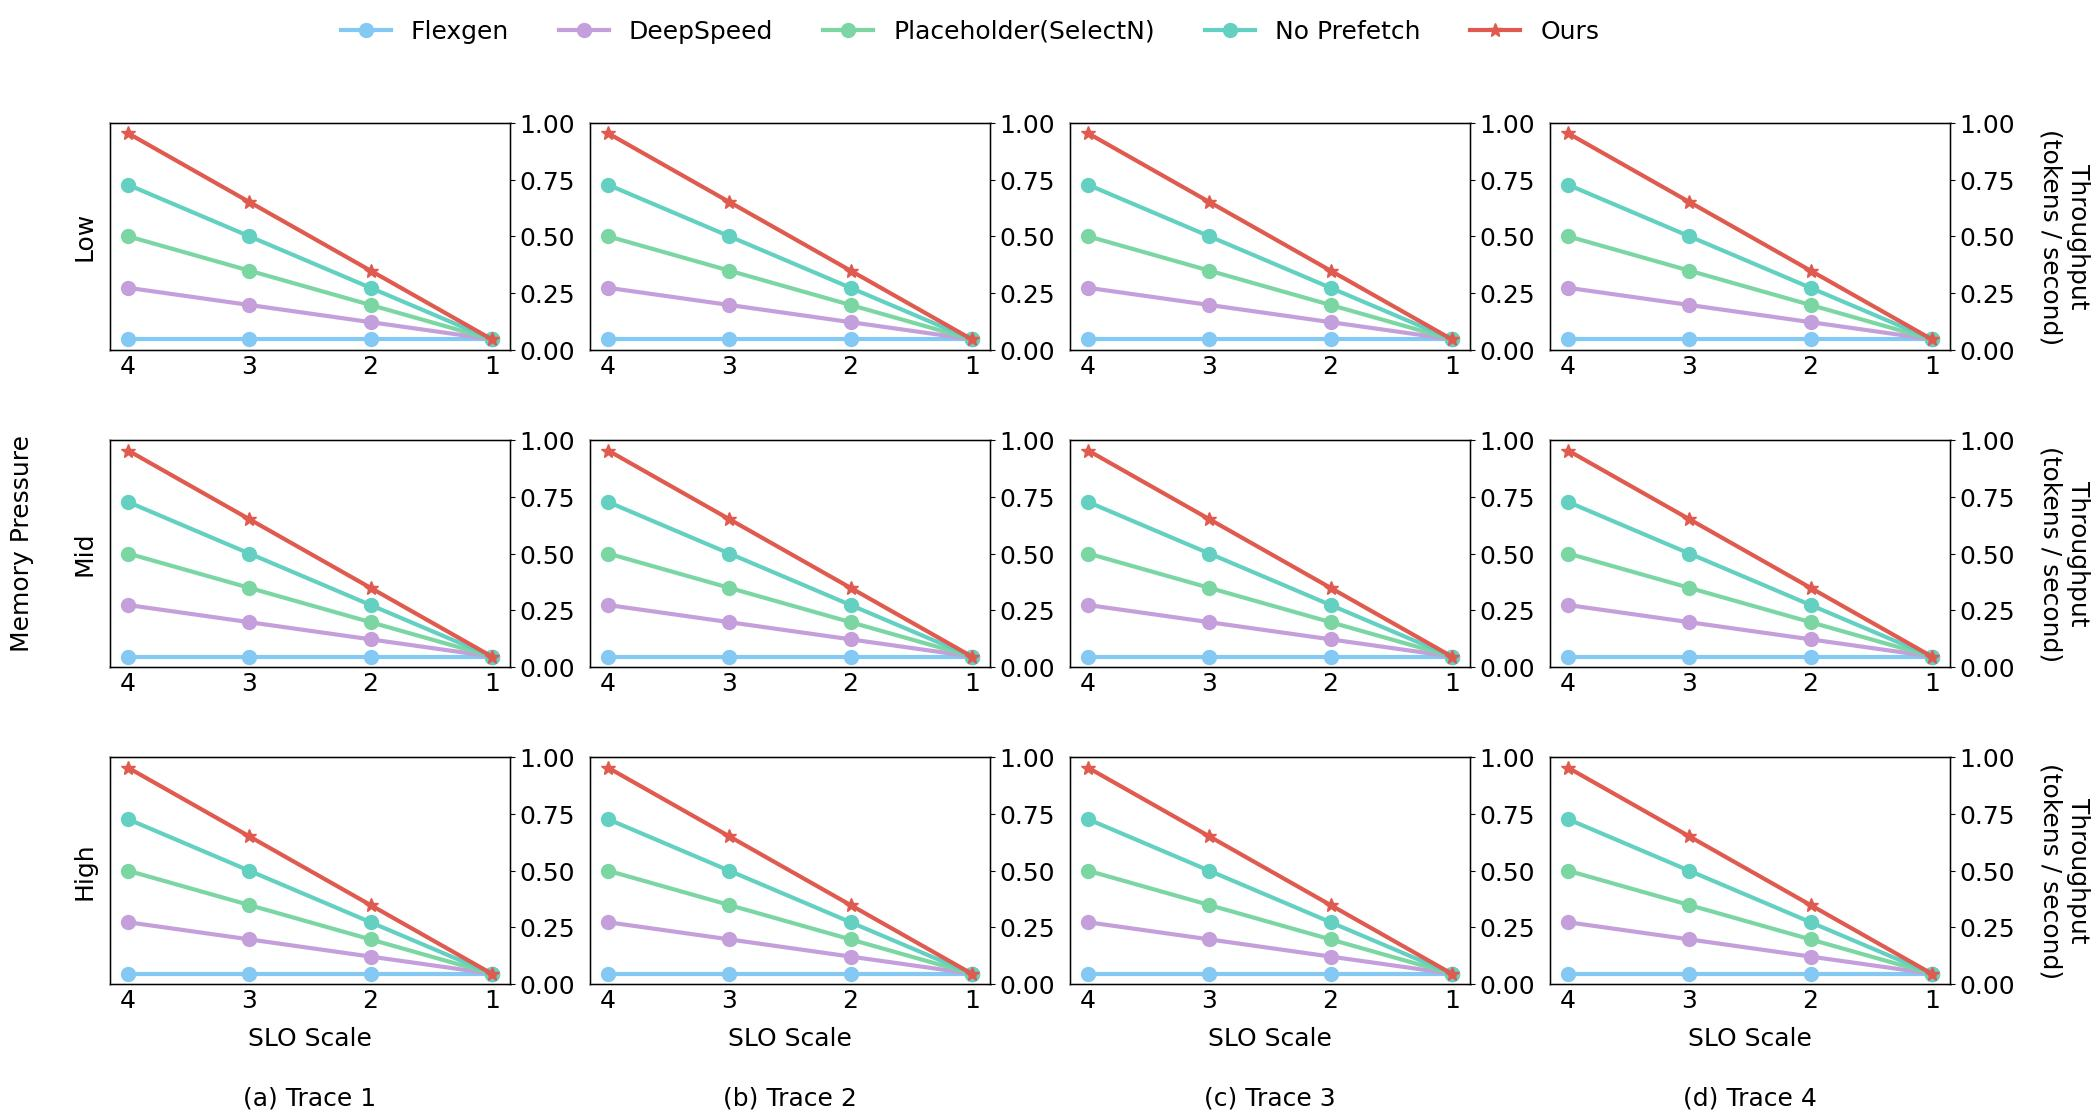
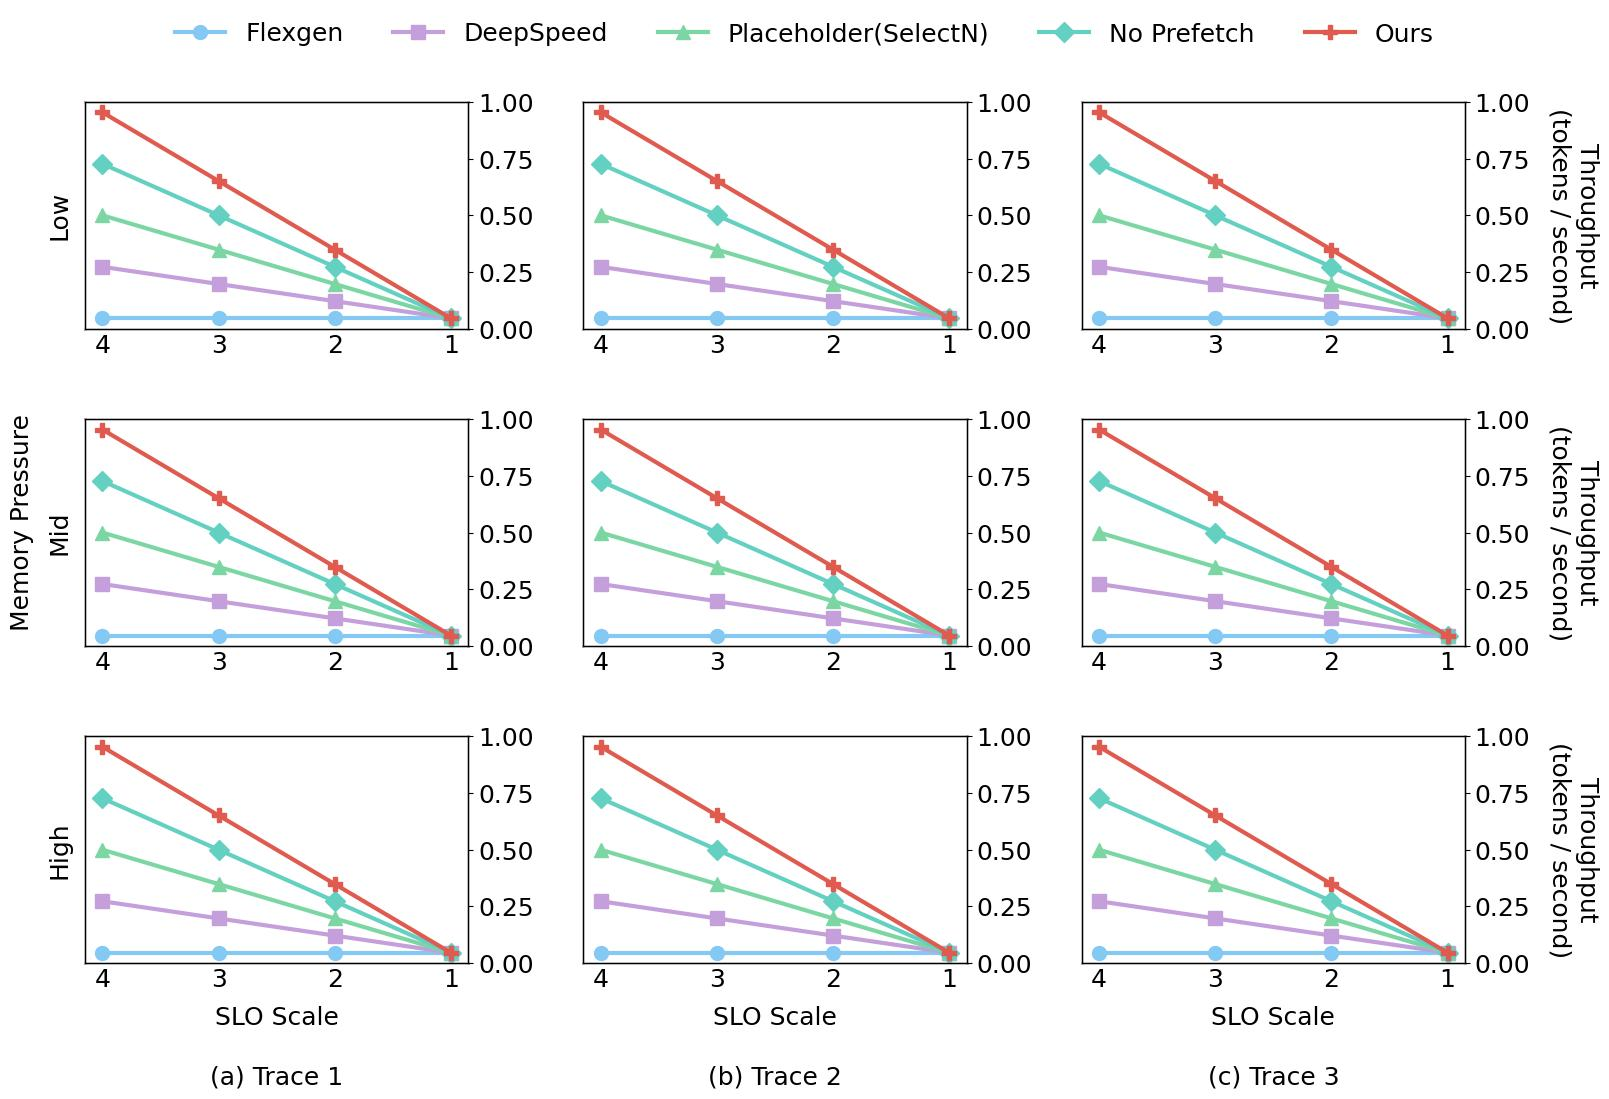
Change to 3 traces

diff --git a/benchmark/data_analysis/tpot_tbt_total_compare.py b/benchmark/data_analysis/tpot_tbt_total_compare.py
@@ -6,9 +6,9 @@ from pathlib import Path
 # ───────────────────────────────────────────────
 # 1. 설정 -------------------------------------------------------
 trace_list  = ["test_fit_static_0", "test_shortshort_enough",
-               "test_shortlong_less", "test_shortlong_enough"]
+               "test_shortlong_less"]
 trace_labels = ["(a) Trace 1", "(b) Trace 2",
-                "(c) Trace 3", "(d) Trace 4"]
+                "(c) Trace 3"]
 
 method_list   = ["Flexgen","DeepSpeed","SelectN","NoPrefetch","Ours"]
 method_labels = ["Flexgen","DeepSpeed","Placeholder(SelectN)",
@@ -20,15 +20,33 @@ metric_labels = ["Low","Mid","High"]           # 왼쪽 y-라벨
 slo_scales    = [4, 3, 2, 1]      # 내림차순!
 slo_labels    = [str(s) for s in slo_scales]   # x축 표기용 문자열
 
-colors  = ["#84C8F4","#C59FDB","#7CD6A4","#63D0C2","#E05A4F"]
-markers = ['o','o','o','o','*']
+colors = [
+    "#84C8F4",  # Soft Sky Blue (연하늘색)
+    "#C59FDB",  # Pastel Lavender (연보라색)
+    "#7CD6A4",  # Mint Green (민트색)
+    "#63D0C2",  # Aqua Teal (청록색)
+    "#E05A4F",  # Coral Red (산호빛 빨강)
+]
+markers = [
+    "o",  # 원
+    "s",  # 사각
+    "^",  # 삼각 (위)
+    "D",  # 다이아몬드
+    "P",  # 플러스형 별표
+]
 
 font_size = 35
 style = {
-    "line":   {"linewidth":3,"markersize":10},
+    "line":   {"linewidth":4,"markersize":15},
     "tick":   {"fontsize":30},
     "label":  {"fontsize":font_size,"labelpad":5},
     "legend": {"fontsize":font_size},
+    "spine": {
+        "color": "black",
+        "alpha": 0.8,
+        "linestyle": "-",
+        "linewidth": 2
+    },
 }
 
 # ───────────────────────────────────────────────
@@ -77,11 +95,11 @@ def slo_tbt(df: pd.DataFrame) -> float:
 # 3. Figure & GridSpec ---------------------------
 N_TRACE, N_METRIC = len(trace_list), len(metric_list)
 
-fig = plt.figure(figsize=(45, 5.5 * N_METRIC))
+fig = plt.figure(figsize=(55, 5.5 * N_METRIC))
 gs  = GridSpec(
     nrows=N_METRIC, ncols=N_TRACE*2 + 1,
     width_ratios=[2]*N_TRACE + [0.5] + [2]*N_TRACE,
-    wspace=0.1, hspace=0.5
+    wspace=0.1, hspace=0.3
 )
 
 axes = [[None]*(N_TRACE*2) for _ in range(N_METRIC)]
@@ -102,10 +120,12 @@ for r, metric in enumerate(metric_list):        # row
             # ---- TPOT ----
             yL = []
             for idx, sc in enumerate(slo_scales):
+                path = Path(f"/home/heelim/vllm/outputs/benchmark/exp/{method}/{trace}_{metric}/{sc}/output.csv")
                 try:
-                    df = load_metrics(Path(f"/home/heelim/vllm/outputs/benchmark/exp/{method}/{trace}_{metric}/{sc}/output.csv"))
+                    df = load_metrics(path)
                     yL.append(slo_tpot(df))
                 except:
+                    print(f"[SLO 경고] {path}")
                     yL.append(10*(idx+1)*(m+1))
             ax_L.plot(slo_scales, yL, **style["line"],
                        marker=markers[m], color=colors[m], label=m_label)
@@ -117,7 +137,7 @@ for r, metric in enumerate(metric_list):        # row
                     x1,x2 = slo_scales[p], slo_scales[p+1]
                     x_cross = x1 + (90-y1)*(x2-x1)/(y2-y1)
                     ax_L.vlines(x_cross, 0, 90, color=colors[m],
-                                ls="--", lw=2, alpha=.8)
+                                ls="--", lw=style["line"]["linewidth"], alpha=.8)
 
             # ---- TBT ----
             yR = []
@@ -136,7 +156,7 @@ for r, metric in enumerate(metric_list):        # row
                     x1,x2 = slo_scales[p], slo_scales[p+1]
                     x_cross = x1 + (90-y1)*(x2-x1)/(y2-y1)
                     ax_R.vlines(x_cross, 0, 90, color=colors[m],
-                                ls="--", lw=2, alpha=.8)
+                                ls="--", lw=style["line"]["linewidth"], alpha=.8)
 
         # ── 축 공통 서식 ──────────────────────────
         for ax in (ax_L, ax_R):
@@ -145,7 +165,7 @@ for r, metric in enumerate(metric_list):        # row
                                fontsize=style["tick"]["fontsize"])  # 라벨만 뒤집기
             # ax.set_xlim(slo_scales[-1], slo_scales[0])  # 오른쪽=1.0, 왼쪽=1.5
             ax.set_ylim(-5, 100)
-            ax.axhline(90, color="gray", ls="--", lw=1.3, alpha=.6)
+            ax.axhline(90, color="gray", ls="--", lw=style["line"]["linewidth"])
             ax.tick_params(axis='both', labelsize=style["tick"]["fontsize"], length=0)
 
         # ── y-tick 설정 ─────────────────────────────
@@ -181,8 +201,13 @@ for r, metric in enumerate(metric_list):        # row
         if c == N_TRACE - 1:
             # ax_L.set_ylabel("SLO attainment (%)", **style["label"])
             # ax_L.yaxis.set_label_position("right")
-            ax_R.set_ylabel("SLO attainment (%)", labelpad = style["label"]["labelpad"], fontsize=28)
+            ax_R.set_ylabel("SLO attainment (%)", 
+                            fontsize=30,
+                            labelpad = style["label"]["labelpad"], 
+                            rotation=270,
+                            )
             ax_R.yaxis.set_label_position("right")
+            ax_R.yaxis.set_label_coords(1.28, 0.5)
 
         if r == len(metric_list) - 1:
             ax_R.set_xlabel(f"SLO Scale", fontsize=style["label"]["fontsize"], labelpad=10)
@@ -199,9 +224,17 @@ for r, metric in enumerate(metric_list):        # row
                         ha='center', va='top',
                         fontsize=style["label"]["fontsize"])
 
+for rax in axes:
+    for ax in rax:
+        for spine in ax.spines.values():
+            spine.set_edgecolor(style["spine"]["color"])
+            spine.set_alpha(style["spine"]["alpha"])
+            spine.set_linewidth(style["spine"]["linewidth"])
+
+
 # ───────────────────────────────────────────────
 # 5. 중앙 세로선, 범례, 공통 텍스트 ---------------
-fig.add_artist(Line2D([0.52, 0.52], [0.0, 0.92],
+fig.add_artist(Line2D([0.52, 0.52], [-0.07, 0.9],
                       transform=fig.transFigure, color="black", lw=2))
 
 handles, labels = axes[0][0].get_legend_handles_labels()
@@ -213,10 +246,11 @@ fig.legend(handles, labels, loc='upper center',
 fig.text(0.1, 0.5, "Memory Pressure", va='center',
          rotation='vertical', fontsize=font_size)
 
-fig.text(0.31, -0.055, "TPOT", ha='center',
-         fontsize=35, weight='bold')
-fig.text(0.715, -0.055, "TBT", ha='center',
-         fontsize=35, weight='bold')
+fig.text(0.31, -0.065, "TPOT", ha='center',
+         fontsize=43, weight='bold')
+fig.text(0.715, -0.065, "TBT", ha='center',
+         fontsize=43, weight='bold')
+
 
 # ───────────────────────────────────────────────
 # 6. 저장 ---------------------------------------

diff --git a/benchmark/data_analysis/p_slo_scale.py b/benchmark/data_analysis/p_slo_scale.py
@@ -48,6 +48,15 @@ def load_metrics(path: Path) -> pd.DataFrame:
             "time_between_tokens": tbt,
             "slo_threshold": np.ones(N, dtype=float)
         })
+    
+style = {
+    "spine": {
+        "color": "gray",
+        "alpha": 0.9,
+        "linestyle": "-",
+        "linewidth": 2
+    },
+}
 
 # ───────────────────────────────────────────────
 # 3. 플롯 설정
@@ -59,19 +68,23 @@ MARKERS       = ["o", "s", "^", "d", "*"]
 TRACE_LIST  = [
     "test_fit_static_0",
     "test_shortshort_enough",
-    "test_shortlong_less",
-    "test_shortlong_enough"
-]
+    "test_shortlong_less"
+] 
+trace_labels  = [
+    "Trace 1",
+    "Trace 2",
+    "Trace 3"
+] 
 PERCENTILES  = [90, 95, 99]
 x_positions  = range(len(PERCENTILES))
 
-fig, axes = plt.subplots(1, 4, figsize=(35, 6), sharey=True)
+fig, axes = plt.subplots(1, len(trace_labels), figsize=(25, 6), sharey=True)
 plt.subplots_adjust(
     left=0.05, right=0.99, top=0.93, bottom=0.07,
-    wspace=0.05, hspace=0.1
+    wspace=0.075, hspace=0.1
 )
 
-for ax, trace in zip(axes, TRACE_LIST):
+for ax, trace, trace_label in zip(axes, TRACE_LIST, trace_labels):
     for method, label, color, marker in zip(METHODS, METHOD_LABELS, COLORS, MARKERS):
         path = Path(f"/home/heelim/vllm/outputs/benchmark/exp/{method}/{trace}/output.csv")
         df = load_metrics(path)
@@ -86,25 +99,34 @@ for ax, trace in zip(axes, TRACE_LIST):
             linewidth=3,
             markersize=10
         )
-    ax.set_title(trace, fontsize=35)
+    ax.set_title(trace_label, fontsize=30)
     ax.set_xticks(x_positions)
-    ax.set_xticklabels([f"p{p}" for p in PERCENTILES], fontsize=35)
+    ax.set_xticklabels([f"p{p}" for p in PERCENTILES], fontsize=30)
     # ax.set_xlabel("Percentile", fontsize=35)
-    ax.grid(alpha=0.3)
+    # ax.grid(alpha=0.3)
 
 # y축 tick 간격 0.5로 설정, 글자 크기 30
 max_ylim = axes[0].get_ylim()[1]
 y_ticks = np.arange(0, max_ylim + 0.5, 0.5)
 axes[0].set_yticks(y_ticks)
 for ax in axes:
-    ax.tick_params(axis='y', labelsize=35)
+    ax.tick_params(axis='x', labelsize=30)
+    ax.tick_params(axis='y', labelsize=30)
+
+    ax.tick_params(axis='x', which='both', length=0)
+    ax.tick_params(axis='y', which='both', length=0)
+
+    for spine in ax.spines.values():
+        spine.set_edgecolor(style["spine"]["color"])
+        spine.set_alpha(style["spine"]["alpha"])
+        spine.set_linewidth(style["spine"]["linewidth"])
 
 # 공통 y축 레이블 & 범례
-axes[0].set_ylabel("SLO Scale", fontsize=35)
+axes[0].set_ylabel("SLO Scale", fontsize=30, labelpad=15)
 fig.legend(METHOD_LABELS, loc='upper center', 
            bbox_to_anchor=(0.52, 1.25),
            ncol=len(METHOD_LABELS),
-           fontsize=35, frameon=False)
+           fontsize=30, frameon=False)
 
 # 폴더 생성 및 저장
 

diff --git a/benchmark/data_analysis/throughput_total_compare.py b/benchmark/data_analysis/throughput_total_compare.py
@@ -9,13 +9,11 @@ trace_list = [
     "test_fit_static_0", 
     "test_shortshort_enough", 
     "test_shortlong_less", 
-    "test_shortlong_enough",
 ]
 trace_labels = [
     "(a) Trace 1",
     "(b) Trace 2",
     "(c) Trace 3",
-    "(d) Trace 4",
 ]
 method_list = ["Flexgen", "DeepSpeed", "SelectN", "NoPrefetch", "Ours"]
 method_labels = ["Flexgen", "DeepSpeed", "Placeholder(SelectN)", "No Prefetch", "Ours"]
@@ -25,25 +23,18 @@ slo_scales = [4, 3, 2, 1]
 slo_labels    = [str(s) for s in slo_scales]   # x축 표기용 문자열
 
 colors = [
-    # Static (파란색 계열 - 부드럽고 시인성 높음)
-    "#84C8F4",  # NextLayer - 부드러운 파란색
-    "#C59FDB",  # Flexgen - 연한 보라색
-    "#7CD6A4",  # NoPrefetch - 연한 청록색
-    "#63D0C2",  # Static2 - 중간 밝기의 민트
-
-    # # Dynamic (따뜻한 계열, Ours는 강조)
-    # "#FAC07D",  # SelectN - 파스텔 오렌지
-    # "#F29E9E",  # DistNSingle - 연한 코랄
-
-    "#E05A4F"   # Ours - 강조용 진한 살구+레드 (단독 대비 확보)
+    "#84C8F4",  # Soft Sky Blue (연하늘색)
+    "#C59FDB",  # Pastel Lavender (연보라색)
+    "#7CD6A4",  # Mint Green (민트색)
+    "#63D0C2",  # Aqua Teal (청록색)
+    "#E05A4F",  # Coral Red (산호빛 빨강)
 ]
-
 markers = [
     'o',  # Flexgen
-    'o',  # DeepSpeed
-    'o',  # SelectN
-    'o',  # NoPrefetch
-    '*'   # Ours
+    's',  # DeepSpeed
+    '^',  # SelectN
+    'D',  # NoPrefetch
+    'P'   # Ours
 ]
 
 
@@ -137,9 +128,11 @@ def load_metrics_for_slo_scales(method: str, trace: str, metric: str, slo_scales
 fig, axes = plt.subplots(
     nrows=len(metric_list), 
     ncols=len(trace_list),
-    figsize=(20, 3.5*len(metric_list)),
+    figsize=(15, 3.5*len(metric_list)),
     squeeze=False, 
 )
+# y축 정렬 및 간격 조정
+plt.subplots_adjust(left=0.07, right=0.99, top=0.90, bottom=0.08, wspace=0.3, hspace=0.4)
 
 for i, metric in enumerate(metric_list):
     for j, (trace, trace_label) in enumerate(zip(trace_list, trace_labels)):
@@ -225,7 +218,7 @@ handles, labels = axes[0][0].get_legend_handles_labels()
 fig.legend(
     handles, labels, 
     loc="upper center",
-    bbox_to_anchor=(0.5,1.02), 
+    # bbox_to_anchor=(0.5,1.02), 
     ncol=len(method_list),
     fontsize=style["legend"]["fontsize"],
     frameon=False
@@ -236,8 +229,7 @@ fig.text(0.02, 0.5, "Memory Pressure", va='center', rotation='vertical', fontsiz
         #  weight='bold'
          )
 
-# y축 정렬 및 간격 조정
-plt.subplots_adjust(left=0.07, right=0.99, top=0.90, bottom=0.08, wspace=0.2, hspace=0.4)
+
 
 plt.savefig("figures/throughput_total_compare.jpg", format='jpg', bbox_inches="tight")
 # plt.savefig("figures/tbt_total_compare.pdf", format='pdf', bbox_inches="tight")